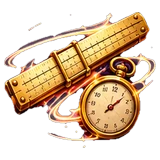
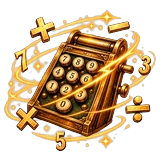
Nuevos emblemas de cabecera de Contrarreloj y Cálculo Turbo (sin aro ni fondo)
Claude-Session: https://claude.ai/code/session_019qqTirXMj9sHEJCbD9nmLh

diff --git a/index.html b/index.html
@@ -49,21 +49,21 @@
 <!-- Tipografía: Playfair Display para el "display" institucional (nombre de la
      app / títulos), Inter para toda la interfaz funcional. Alojadas en la propia app
      (styles/fonts.css, assets/fonts/): funcionan sin conexión y no dependen de Google. -->
-<link rel="stylesheet" href="styles/fonts.css?v=429">
+<link rel="stylesheet" href="styles/fonts.css?v=430">
 <link rel="preload" href="assets/fonts/inter-latin.woff" as="font" type="font/woff" crossorigin>
-<link rel="stylesheet" href="styles/main.css?v=429">
+<link rel="stylesheet" href="styles/main.css?v=430">
 <!-- v1.4: estilos de la capa online (cuenta, migración, ranking). Solo clases .seq-* -->
-<link rel="stylesheet" href="styles/online.css?v=429">
-<link rel="stylesheet" href="styles/results-frame.css?v=429">
-<link rel="stylesheet" href="styles/visual-2-3.css?v=429">
-<link rel="stylesheet" href="styles/light-refresh.css?v=429">
-<link rel="stylesheet" href="styles/encargos.css?v=429">
-<link rel="stylesheet" href="styles/encargos-intro.css?v=429">
-<link rel="stylesheet" href="styles/duel-intro.css?v=429">
-<link rel="stylesheet" href="styles/sir-events.css?v=429">
-<link rel="stylesheet" href="styles/reward-toast.css?v=429">
-<link rel="stylesheet" href="styles/theme.css?v=429">
-<link rel="stylesheet" href="styles/privacy.css?v=429">
+<link rel="stylesheet" href="styles/online.css?v=430">
+<link rel="stylesheet" href="styles/results-frame.css?v=430">
+<link rel="stylesheet" href="styles/visual-2-3.css?v=430">
+<link rel="stylesheet" href="styles/light-refresh.css?v=430">
+<link rel="stylesheet" href="styles/encargos.css?v=430">
+<link rel="stylesheet" href="styles/encargos-intro.css?v=430">
+<link rel="stylesheet" href="styles/duel-intro.css?v=430">
+<link rel="stylesheet" href="styles/sir-events.css?v=430">
+<link rel="stylesheet" href="styles/reward-toast.css?v=430">
+<link rel="stylesheet" href="styles/theme.css?v=430">
+<link rel="stylesheet" href="styles/privacy.css?v=430">
 
 </head>
 <body class="on-home">
@@ -1151,59 +1151,59 @@ try {
 <!-- Fase 2: datos y constantes extraidos a modulos, cargados como scripts
      clasicos (no ES Modules) para conservar el scope global compartido con
      el script principal, sin convertir todavia la app a ES Modules. -->
-<script src="src/data/ui-maps.js?v=429"></script>
-<script src="src/data/questions.js?v=429"></script>
-<script src="src/data/questions-retired.js?v=429"></script>
-<script src="src/data/phrases.js?v=429"></script>
-<script src="src/data/duel-phrases.js?v=429"></script>
-<script src="src/data/lucidez.js?v=429"></script>
-<script src="src/data/medals.js?v=429"></script>
+<script src="src/data/ui-maps.js?v=430"></script>
+<script src="src/data/questions.js?v=430"></script>
+<script src="src/data/questions-retired.js?v=430"></script>
+<script src="src/data/phrases.js?v=430"></script>
+<script src="src/data/duel-phrases.js?v=430"></script>
+<script src="src/data/lucidez.js?v=430"></script>
+<script src="src/data/medals.js?v=430"></script>
 <!-- Prompt 3 — Fase C: sistema de avatares compartido (window.SEQAvatars). Debe
      cargarse antes de src/online/online.js y src/online/duels.js: ambos lo
      consumen en vez de mantener cada uno su propia copia de la lista. -->
-<script src="src/data/avatars.js?v=429"></script>
-<script src="src/share/share-card.js?v=429"></script>
+<script src="src/data/avatars.js?v=430"></script>
+<script src="src/share/share-card.js?v=430"></script>
 
 <!-- Fase 3 (Lote 3A): motor de coincidencia de respuestas extraido a
      src/utils/matching.js, mismo criterio que la Fase 2 (script clasico,
      sin ES Modules todavia). -->
-<script src="src/utils/matching.js?v=429"></script>
-<script src="src/utils/review-batch.js?v=429"></script>
-<script src="src/utils/records-reset.js?v=429"></script>
-<script src="src/utils/answer-alias.js?v=429"></script>
-<script src="src/utils/lucidez-select.js?v=429"></script>
-<script src="src/state/lucidez-bag.js?v=429"></script>
-<script src="src/state/timetrial-bag.js?v=429"></script>
-<script src="src/utils/encargos-core.js?v=429"></script>
-<script src="src/utils/encargos-progress.js?v=429"></script>
-<script src="src/state/encargos.js?v=429"></script>
-<script src="src/data/encargos-phrases.js?v=429"></script>
-<script src="src/ui/encargos-ui.js?v=429"></script>
-<script src="src/data/named-phrases.js?v=429"></script>
-<script src="src/utils/named-phrases.js?v=429"></script>
-<script src="src/utils/encargos-intro-core.js?v=429"></script>
-<script src="src/data/encargos-intro-phrases.js?v=429"></script>
-<script src="src/ui/encargos-intro.js?v=429"></script>
-<script src="src/ui/duel-intro.js?v=429"></script>
-<script src="src/data/home-quotes.js?v=429"></script>
-<script src="src/ui/home-quote.js?v=429"></script>
-<script src="src/utils/sir-events.js?v=429"></script>
-<script src="src/ui/sir-events-ui.js?v=429"></script>
-<script src="src/state/sir-events.js?v=429"></script>
-<script src="src/utils/sudden-progression.js?v=429"></script>
-<script src="src/utils/mental-calc.js?v=429"></script>
-<script src="src/utils/mental-classic.js?v=429"></script>
-<script src="src/utils/mental-tips.js?v=429"></script>
-<script src="src/ui/mental-classic-ui.js?v=429"></script>
-<script src="src/ui/mental-menu.js?v=429"></script>
-<script src="src/ui/level-up.js?v=429"></script>
+<script src="src/utils/matching.js?v=430"></script>
+<script src="src/utils/review-batch.js?v=430"></script>
+<script src="src/utils/records-reset.js?v=430"></script>
+<script src="src/utils/answer-alias.js?v=430"></script>
+<script src="src/utils/lucidez-select.js?v=430"></script>
+<script src="src/state/lucidez-bag.js?v=430"></script>
+<script src="src/state/timetrial-bag.js?v=430"></script>
+<script src="src/utils/encargos-core.js?v=430"></script>
+<script src="src/utils/encargos-progress.js?v=430"></script>
+<script src="src/state/encargos.js?v=430"></script>
+<script src="src/data/encargos-phrases.js?v=430"></script>
+<script src="src/ui/encargos-ui.js?v=430"></script>
+<script src="src/data/named-phrases.js?v=430"></script>
+<script src="src/utils/named-phrases.js?v=430"></script>
+<script src="src/utils/encargos-intro-core.js?v=430"></script>
+<script src="src/data/encargos-intro-phrases.js?v=430"></script>
+<script src="src/ui/encargos-intro.js?v=430"></script>
+<script src="src/ui/duel-intro.js?v=430"></script>
+<script src="src/data/home-quotes.js?v=430"></script>
+<script src="src/ui/home-quote.js?v=430"></script>
+<script src="src/utils/sir-events.js?v=430"></script>
+<script src="src/ui/sir-events-ui.js?v=430"></script>
+<script src="src/state/sir-events.js?v=430"></script>
+<script src="src/utils/sudden-progression.js?v=430"></script>
+<script src="src/utils/mental-calc.js?v=430"></script>
+<script src="src/utils/mental-classic.js?v=430"></script>
+<script src="src/utils/mental-tips.js?v=430"></script>
+<script src="src/ui/mental-classic-ui.js?v=430"></script>
+<script src="src/ui/mental-menu.js?v=430"></script>
+<script src="src/ui/level-up.js?v=430"></script>
 
 <!-- Fase 3 (Lote 3B): nucleo algoritmico de Duelo extraido a
      src/utils/duel.js, mismo criterio que el resto (script clasico, sin
      ES Modules todavia). Las dependencias compartidas con otros modos
      (arrangeStandardBlock, generateLucidezMentalOp)
      permanecen en este script principal, sin moverse en este lote. -->
-<script src="src/utils/duel.js?v=429"></script>
+<script src="src/utils/duel.js?v=430"></script>
 
 <!-- Fase 3 (Lote 3C): defaults, migracion y saneamiento del Store
      extraidos a src/utils/store.js, mismo criterio que el resto (script
@@ -1215,60 +1215,60 @@ try {
      getLevelData) y las 8 funciones de persistencia real (loadStore,
      saveStore, exportProgress...) permanecen en este script principal,
      sin moverse en este lote. -->
-<script src="src/utils/store.js?v=429"></script>
+<script src="src/utils/store.js?v=430"></script>
 
 <!-- Fase 4B: fachada de estado de solo lectura (getStore/getCurrentGame),
      mismo criterio que el resto (script clasico, sin ES Modules todavia).
      No copia, no transforma, no cachea. Ver src/state/read-facade.js. -->
-<script src="src/state/read-facade.js?v=429"></script>
+<script src="src/state/read-facade.js?v=430"></script>
 
-<script src="src/utils/streak-xp.js?v=429"></script>
+<script src="src/utils/streak-xp.js?v=430"></script>
 <!-- Fase 4C: helpers minimos de escritura (pushCapped, resetStreak) para
      eliminar 2 duplicaciones reales concretas -- no un sistema de
      mutaciones. Ver src/state/write-helpers.js y CHANGELOG_FASE4C.md. -->
-<script src="src/state/write-helpers.js?v=429"></script>
+<script src="src/state/write-helpers.js?v=430"></script>
 
 <!-- v1.4: capa online (cuenta Google, sincronización, migración, ranking).
      config.js es PÚBLICO (URL del Worker + Client ID de Google); si está
      vacío, la capa online queda desactivada y la app es idéntica a la v1.3.
      online.js solo usa el store/funciones del juego en tiempo de ejecución. -->
-<script src="src/ui/install-app.js?v=429"></script>
-<script src="src/share/invite.js?v=429"></script>
-<script src="src/ui/reward-toast.js?v=429"></script>
-<script src="src/ui/privacy.js?v=429"></script>
-<script src="src/ui/a11y.js?v=429"></script>
-<script src="src/ui/back-nav.js?v=429"></script>
-<script src="src/ui/game-fx.js?v=429"></script>
-<script src="src/ui/last-life.js?v=429"></script>
-<script src="src/ui/hitos.js?v=429"></script>
-<script src="src/ui/achievements.js?v=429"></script>
-<script src="src/ui/stats-extra.js?v=429"></script>
-<script src="src/ui/name-prompt.js?v=429"></script>
-<script src="src/ui/intro.js?v=429"></script>
-<script src="src/ui/mode-badges.js?v=429"></script>
-<script src="src/ui/lucidez-ui.js?v=429"></script>
-<script src="src/ui/sabias.js?v=429"></script>
-<script src="src/ui/icons.js?v=429"></script>
-<script src="src/online/config.js?v=429"></script>
+<script src="src/ui/install-app.js?v=430"></script>
+<script src="src/share/invite.js?v=430"></script>
+<script src="src/ui/reward-toast.js?v=430"></script>
+<script src="src/ui/privacy.js?v=430"></script>
+<script src="src/ui/a11y.js?v=430"></script>
+<script src="src/ui/back-nav.js?v=430"></script>
+<script src="src/ui/game-fx.js?v=430"></script>
+<script src="src/ui/last-life.js?v=430"></script>
+<script src="src/ui/hitos.js?v=430"></script>
+<script src="src/ui/achievements.js?v=430"></script>
+<script src="src/ui/stats-extra.js?v=430"></script>
+<script src="src/ui/name-prompt.js?v=430"></script>
+<script src="src/ui/intro.js?v=430"></script>
+<script src="src/ui/mode-badges.js?v=430"></script>
+<script src="src/ui/lucidez-ui.js?v=430"></script>
+<script src="src/ui/sabias.js?v=430"></script>
+<script src="src/ui/icons.js?v=430"></script>
+<script src="src/online/config.js?v=430"></script>
 <!-- v2.0: combinación de datos de jugador (mismo código que el servidor) y su sincronización -->
-<script src="src/utils/sync-merge.js?v=429"></script>
-<script src="src/online/data-sync.js?v=429"></script>
-<script src="src/online/online.js?v=429"></script>
+<script src="src/utils/sync-merge.js?v=430"></script>
+<script src="src/online/data-sync.js?v=430"></script>
+<script src="src/online/online.js?v=430"></script>
 <!-- v1.5: Amigos, Duelo online y Retos. El servidor decide preguntas, tiempo, aciertos y ganador. -->
-<script src="src/state/result-heard.js?v=429"></script>
-<script src="src/state/multi-result.js?v=429"></script>
-<script src="src/online/reto-fx.js?v=429"></script>
-<script src="src/online/duels.js?v=429"></script>
+<script src="src/state/result-heard.js?v=430"></script>
+<script src="src/state/multi-result.js?v=430"></script>
+<script src="src/online/reto-fx.js?v=430"></script>
+<script src="src/online/duels.js?v=430"></script>
 <!-- 2.1: Duelo por apuestas, ELO PvP, Rankings y estadísticas de Duelos (solo presentación; decide el servidor) -->
-<script src="src/online/duels-v21.js?v=429"></script>
-<script src="src/online/multi-duels.js?v=429"></script>
-<script src="src/online/multi-stakes.js?v=429"></script>
+<script src="src/online/duels-v21.js?v=430"></script>
+<script src="src/online/multi-duels.js?v=430"></script>
+<script src="src/online/multi-stakes.js?v=430"></script>
 <!-- 2.3: ficha pública de un jugador (resumen, récords, PvP y solicitud de amistad) -->
-<script src="src/online/player-profile.js?v=429"></script>
-<script src="src/online/inbox.js?v=429"></script>
-<script src="src/online/push.js?v=429"></script>
+<script src="src/online/player-profile.js?v=430"></script>
+<script src="src/online/inbox.js?v=430"></script>
+<script src="src/online/push.js?v=430"></script>
 <!-- Audio: sonidos del juego (src/audio/audio.js) -->
-<script src="src/audio/audio.js?v=429"></script>
+<script src="src/audio/audio.js?v=430"></script>
 
 <script>
 function closeWelcomeModal() {
@@ -7306,6 +7306,6 @@ window.addEventListener('appinstalled', () => {
   hidePwaHint();
 });
 </script>
-<script src="src/ui/resume-clock.js?v=429"></script>
+<script src="src/ui/resume-clock.js?v=430"></script>
 </body>
 </html>

diff --git a/sw.js b/sw.js
@@ -38,7 +38,7 @@
 // styles/main.css, src/data/medals.js, src/utils/store.js y src/online/duels.js (ya en el shell).
 // 2.0 (Prompt 5, tarjeta de compartir): subido de 10 a 11; nuevo src/share/share-card.js
 // (añadido al shell) y cambiaron index.html y src/online/duels.js.
-const CACHE_VERSION = 429;
+const CACHE_VERSION = 430;
 // Dos cachés (ver install/fetch más abajo):
 //  · CACHE_NAME  (versionada): index.html, CSS, JS, manifest e iconos. Es poco y es imprescindible: si no se puede guardar, la
 //    versión nueva no se instala y se queda la anterior.
@@ -637,8 +637,8 @@ const ASSET_REVS = {
   './assets/modes/duelo.webp': 'a4a67f60',
   './assets/modes/emblema/ameba.webp': 'f63f2828',
   './assets/modes/emblema/calculo-clasico.webp': '5c93e490',
-  './assets/modes/emblema/calculo-turbo.webp': '2f316378',
-  './assets/modes/emblema/contrarreloj.webp': '3819e585',
+  './assets/modes/emblema/calculo-turbo.webp': '544096e2',
+  './assets/modes/emblema/contrarreloj.webp': '7a0e77da',
   './assets/modes/emblema/derrame.webp': 'edf48e3d',
   './assets/modes/emblema/duelo-apuestas.webp': 'cbcbc473',
   './assets/modes/emblema/duelo-clasico.webp': '649ded14',
